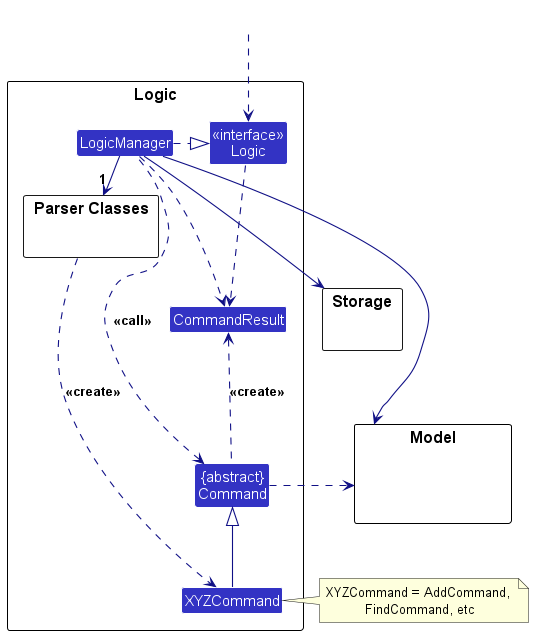
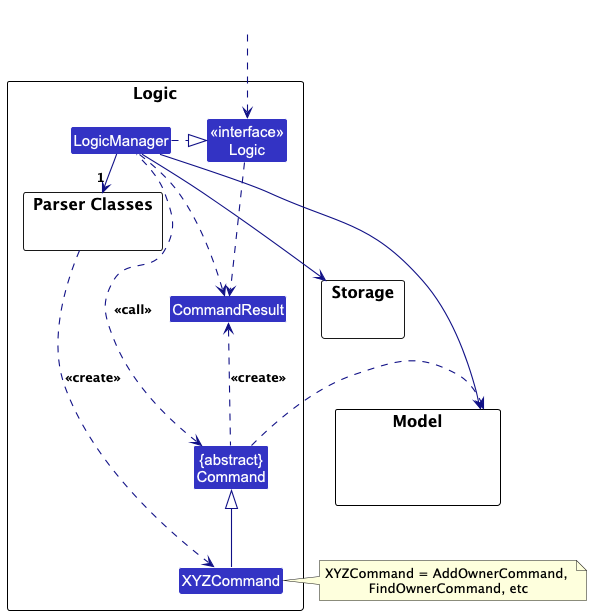
Update UML diagrams in DG and puml files

diff --git a/docs/DeveloperGuide.md b/docs/DeveloperGuide.md
@@ -61,7 +61,7 @@ The bulk of the app's work is done by the following four components:
 **How the architecture components interact with each other**
 
 The _Sequence Diagram_ below shows how the components interact with each other for the scenario where the user issues
-the command `delete 1`.
+the command `delete o1`.
 
 <img src="images/ArchitectureSequenceDiagram.png" width="574" />
 
@@ -113,7 +113,7 @@ Here's a (partial) class diagram of the `Logic` component:
 
 <img src="images/LogicClassDiagram.png" width="550"/>
 
-The sequence diagram below illustrates the interactions within the `Logic` component, taking `execute("delete 1")` API
+The sequence diagram below illustrates the interactions within the `Logic` component, taking `execute("delete o1")` API
 call as an example.
 
 ![Interactions Inside the Logic Component for the `delete 1` Command](images/DeleteSequenceDiagram.png)
